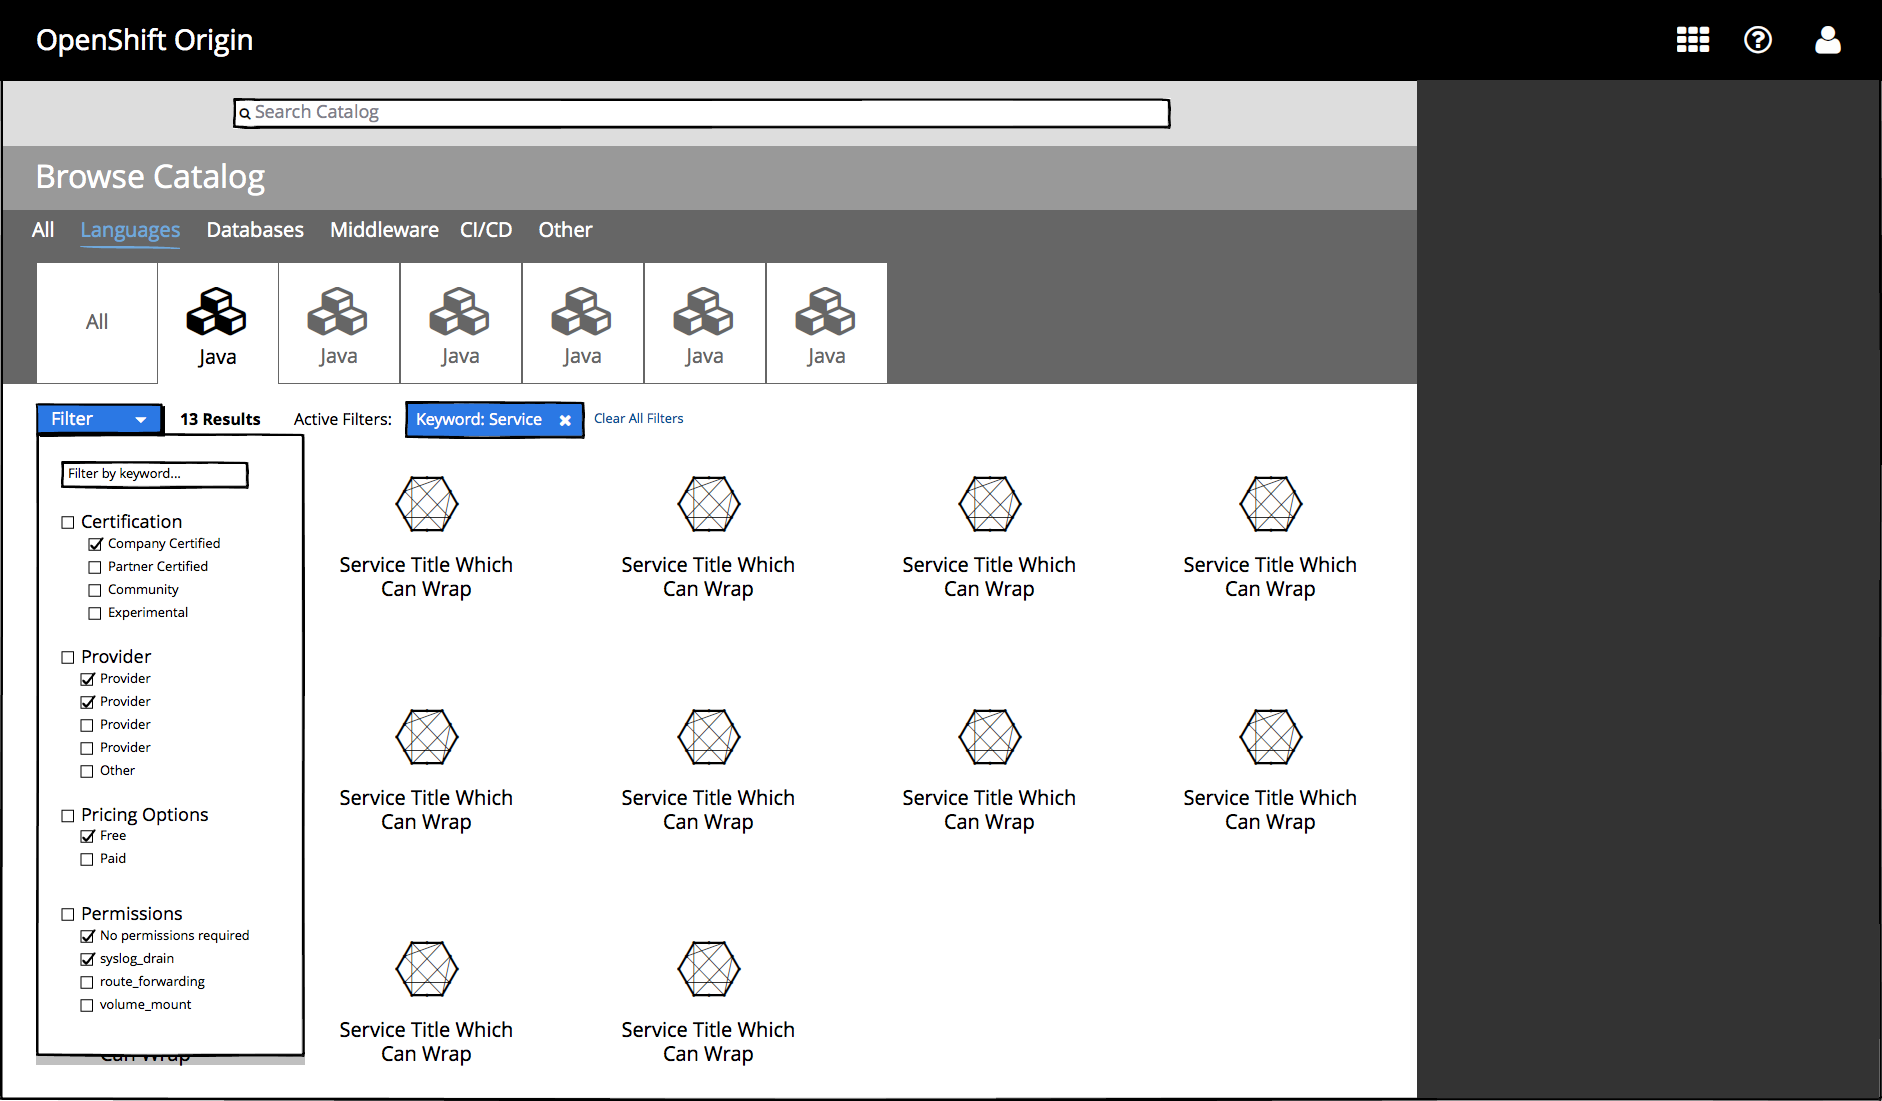
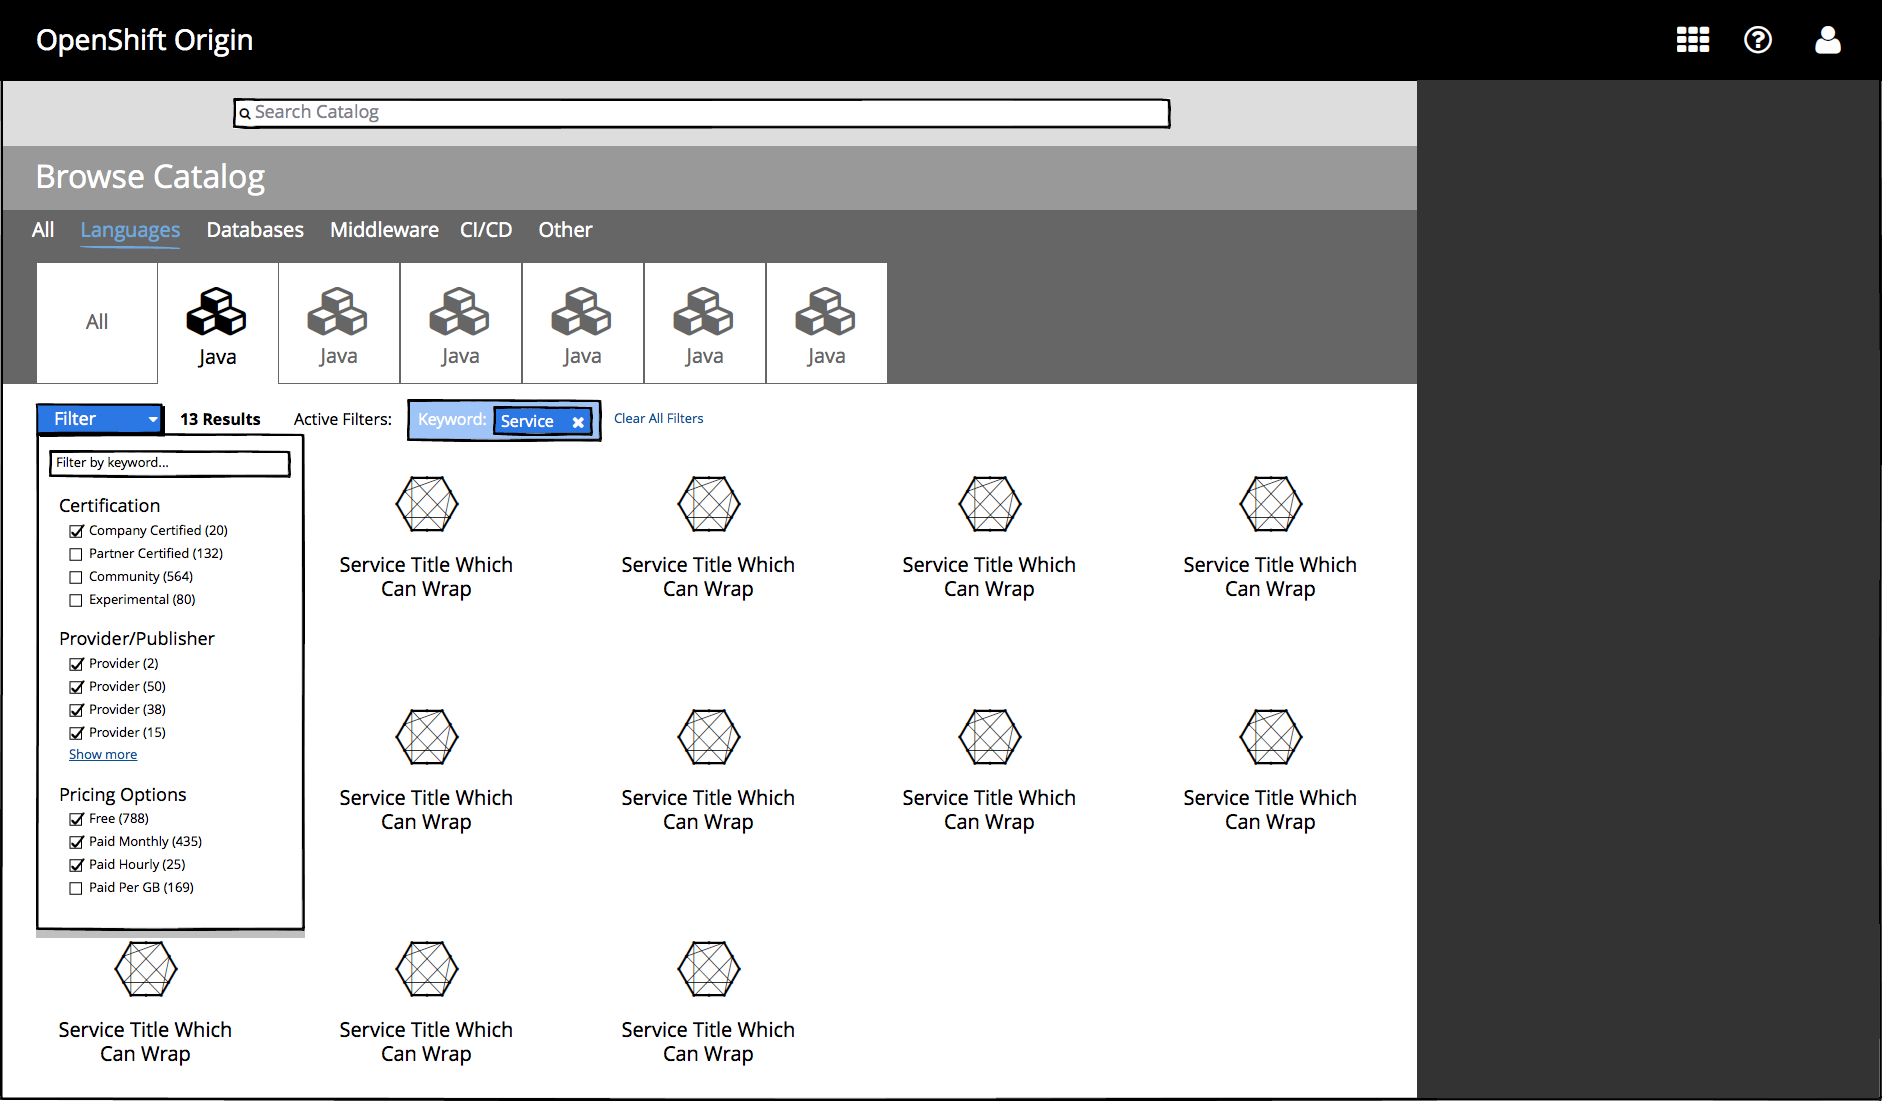
Updating filtering docs to include faceted filters

Changed region(s): [[0.0, 0.3706, 0.1849, 0.9882], [0.2157, 0.3397, 0.3698, 0.4015]]

diff --git a/web-console/1-homepage/search-filter.md b/web-console/1-homepage/search-filter.md
@@ -41,33 +41,25 @@
 - Is it clear that the keyword filter is a direct result of entering a search term?
 
 ## Filtering within a page
-![search](img/search-05.png)
-- Users may narrow the items displayed on a catalog page by using the keyword filter box.
-- The filter box creates or edits an active keyword filter which displays only items with a name, tag, or description that matches the keyword
-- Differences from main search bar
-	- Filters are applied to the currently active page rather than taking the user to the `All` category page.
-	- Typing a new term into this box will add a new keyword filter to the current page with an AND relationship to the previous keyword filter
+![search](img/search-06.png)
+- Users may narrow the items displayed on a catalog page by applying additional filters from the filter dropdown.
+- The keyword filter box creates an active keyword filter which displays only items with a name, tag, or description that matches the keyword.
+	- Unlike the main search bar, Filters are applied to the currently active page rather than taking the user to the `All` category page.
+	- Typing a new term into this box will add a new keyword filter to the current page with an AND relationship to the previous keyword filter.
+- Filter checkboxes enable users to quickly add and remove filters within different categories
+	- Filters added from separate sections are combined with an AND relationship.
+	- Filters within the same section are combined with an OR relationship (e.g. show me services that are free OR billed monthly).
+- Clicking outside of the filter dropdown should close the dropdown.
 
 ## Rules for active filters
+![search](img/search-07.png)
 - Filters exist only within the scope of the currently selected category and subcategory and their behavior reflects this:
 	- Filters do not persist when a different category or subcategory tab is selected.
 	- Filters are not saved on the page for when the user navigates back to a category or subcategory tab (Using the browser's back button should restore the state of the previous page including filters, however).
 	- An active filter that yields 0 results in a given category or subcategory must not cause the tab to disappear. This is true for the currently selected tab as well as other tabs.
 
-**********
-
-# Future Use Cases
-
-## Additional Filters
-![search](img/search-06.png)
-- When additional filters become available, the keyword filter box will be moved into a filter dropdown along with the rest of the filters.
-
-![search](img/search-07.png)
-- Additional filters may be added as normal and stack with the keyword filter in an OR relationship
-- Filters within the same section are combined with an AND relationship (e.g. free AND paid options are available)
-
 #### Implementation Details
-- Filters available on this page will be the same ones that would be available from the All Categories tab under normal circumstances
+- If it is possible to determine the number of items that match a given filter, that number should be displayed next to each filter in a list.
 - If it is possible to determine that the current keyword filter constrains the page's contents to a single other category or subcategory, filters for that category should be shown instead.
 - In the short term, standard PatternFly filter token styling may be used.
 	- Ultimately, these tokens should be updated to match the below mockup
@@ -78,9 +70,5 @@
 - Provider
 - Pricing options
 	- Free
-	- Paid
-- Permissions
-	- No Permissions Required
-	- Syslog Drain
-	- Route Forwarding
-	- Volume Mount
+	- List of pricing plans taken from service data
+- Health Index or user rating

diff --git a/README.md b/README.md
@@ -5,7 +5,7 @@ Access documentation for specific sections by clicking on the links below
 	- [Catalog](http://openshift.github.io/openshift-origin-design/web-console/1-homepage/catalog)
 	- [SaaS Offerings](http://openshift.github.io/openshift-origin-design/web-console/1-homepage/offerings)
 	- [Project Panel](http://openshift.github.io/openshift-origin-design/web-console/1-homepage/project-panel)
-	- [Search](http://openshift.github.io/openshift-origin-design/web-console/1-homepage/search-filter)
+	- [Search and Filter](http://openshift.github.io/openshift-origin-design/web-console/1-homepage/search-filter)
 1. [Projects Page](http://openshift.github.io/openshift-origin-design/web-console/2-projects-page/overview)
 1. [Project Details](http://openshift.github.io/openshift-origin-design/web-console/3-project-details/overview)
 	- [Add To Project](http://openshift.github.io/openshift-origin-design/web-console/3-project-details/add-to-project)
